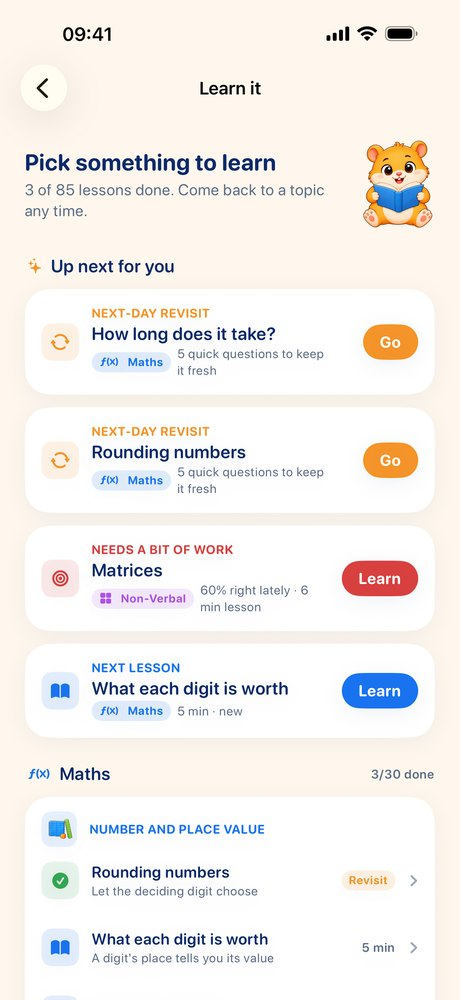
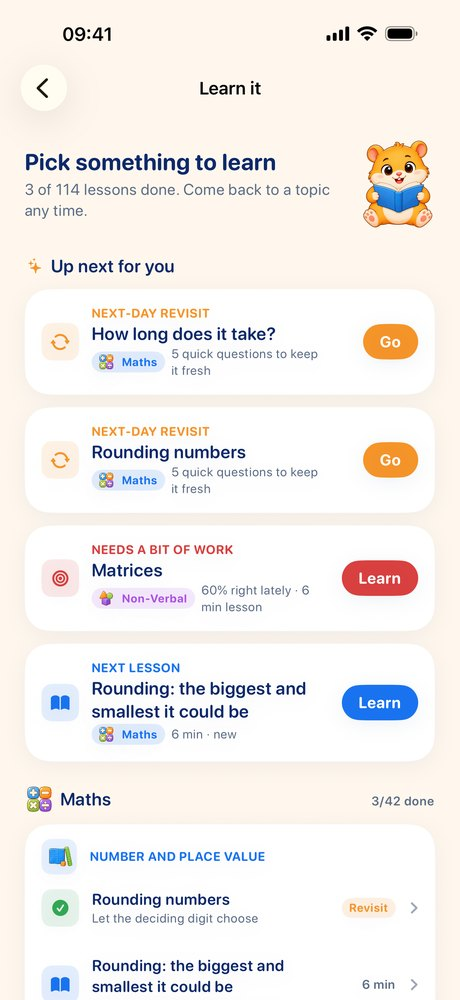
Site: latest counts (114 lessons, 13,000+ questions, 209 passages) and the harder question packs
Per-subject lessons 42/28/21/23 and question floors from the 2.3+ banks,
new lesson-library screenshot and og card line, sitemap lastmod 2026-11-18.

diff --git a/index.html b/index.html
@@ -4,13 +4,13 @@
 <meta charset="utf-8">
 <meta name="viewport" content="width=device-width, initial-scale=1">
 <title>11+ Test Coach — 11+ lessons and practice for iPhone and iPad</title>
-<meta name="description" content="Short lessons teach each 11+ topic first, then 12,000+ exam-style questions with hints build it up. Maths, English, Verbal and Non-Verbal Reasoning on iPhone and iPad. Try everything free for 24 hours, no card.">
+<meta name="description" content="Short lessons teach each 11+ topic first, then 13,000+ exam-style questions with hints build it up. Maths, English, Verbal and Non-Verbal Reasoning on iPhone and iPad. Try everything free for 24 hours, no card.">
 <link rel="stylesheet" href="/style.css">
 <link rel="icon" href="/assets/favicon-96.png" type="image/png">
 <meta name="theme-color" content="#F7FAFF">
 <link rel="canonical" href="https://11testcoach.co.uk/">
 <meta property="og:title" content="11+ Test Coach — taught first, then practised">
-<meta property="og:description" content="85 short lessons and 12,000+ exam-style questions across all four 11+ subjects, with a hamster coach called Taco. Free for 24 hours, then five free questions a day. No ads, no account, no tracking.">
+<meta property="og:description" content="114 short lessons and 13,000+ exam-style questions across all four 11+ subjects, with a hamster coach called Taco. Free for 24 hours, then five free questions a day. No ads, no account, no tracking.">
 <meta property="og:image" content="https://11testcoach.co.uk/assets/og-card.png">
 <meta property="og:image:width" content="1200">
 <meta property="og:image:height" content="630">
@@ -134,27 +134,27 @@
     <!-- The four subjects, briefly. The deep dive lives on /subjects/. -->
     <section id="subjects" class="hm-subjects">
       <p class="kicker">All four 11+ subjects</p>
-      <h2 class="section-title">85 lessons and 12,000+ questions, built for the 11+.</h2>
+      <h2 class="section-title">114 lessons and 13,000+ questions, built for the 11+.</h2>
       <p class="section-sub">Pick your child's target schools from 250 grammar and selective schools, and practice covers just the subjects those schools test.</p>
       <div class="hm-subject-grid">
         <a class="hm-subject" href="/subjects/#maths" style="--c:#C27C00;--bg:#FFF5DE">
           <span class="hm-subject-name">Maths</span>
-          <span class="hm-subject-count">30 lessons</span>
+          <span class="hm-subject-count">42 lessons</span>
           <span class="hm-subject-topics">Fractions, percentages, place value, time, area, angles, word problems</span>
         </a>
         <a class="hm-subject" href="/subjects/#english" style="--c:#1A6FD6;--bg:#E8F2FF">
           <span class="hm-subject-name">English</span>
-          <span class="hm-subject-count">22 lessons</span>
+          <span class="hm-subject-count">28 lessons</span>
           <span class="hm-subject-topics">Comprehension, inference, spelling, grammar, punctuation, cloze</span>
         </a>
         <a class="hm-subject" href="/subjects/#verbal" style="--c:#138A57;--bg:#E4F7EE">
           <span class="hm-subject-name">Verbal Reasoning</span>
-          <span class="hm-subject-count">15 lessons</span>
+          <span class="hm-subject-count">21 lessons</span>
           <span class="hm-subject-topics">Letter codes, sequences, hidden words, synonyms, logic</span>
         </a>
         <a class="hm-subject" href="/subjects/#nonverbal" style="--c:#8A36C2;--bg:#F4E9FC">
           <span class="hm-subject-name">Non-Verbal Reasoning</span>
-          <span class="hm-subject-count">18 lessons</span>
+          <span class="hm-subject-count">23 lessons</span>
           <span class="hm-subject-topics">Reflections, rotations, matrices, cube nets, paper folding</span>
         </a>
       </div>
@@ -163,6 +163,7 @@
         <li><b>Master a Skill</b>: one topic, level by level, up to a trophy</li>
         <li><b>A starting check</b> finds their level in each topic on day one</li>
         <li><b>Every question audited</b>, with 5,000+ rewritten or rebuilt to 11+ standard</li>
+        <li><b>Harder questions for the top end</b>: multi-step maths, GL-style spelling and punctuation lines, classic stories and poems to read, and new picture styles in NVR</li>
       </ul>
       <p class="hm-more"><a href="/subjects/">See a lesson and a question from every subject →</a></p>
     </section>
@@ -262,7 +263,7 @@
         </div>
       </div>
 
-      <p class="hm-then">Want everything? Pick a plan. Every plan has all four subjects, all 85 lessons, 12,000+ questions and unlimited practice, mock tests, Master a Skill, assignments, weekly plans and PDF reports.</p>
+      <p class="hm-then">Want everything? Pick a plan. Every plan has all four subjects, all 114 lessons, 13,000+ questions and unlimited practice, mock tests, Master a Skill, assignments, weekly plans and PDF reports.</p>
 
       <div class="hm-plans">
         <div class="hm-plan">
@@ -332,7 +333,7 @@
         </details>
         <details>
           <summary>What's free after the 24 hours?</summary>
-          <p><b>Taco's Daily 5</b>: five questions every day, one subject at a time, aimed at your child's weakest topic, with hints, XP, streaks and rewards. In Parent Mode you keep the overview, focus areas, mistakes, starting assessments, rewards and reminders. A plan adds unlimited practice, all 85 lessons, mock tests, Master a Skill, assignments, weekly plans and PDF reports. There's no time limit on the free plan.</p>
+          <p><b>Taco's Daily 5</b>: five questions every day, one subject at a time, aimed at your child's weakest topic, with hints, XP, streaks and rewards. In Parent Mode you keep the overview, focus areas, mistakes, starting assessments, rewards and reminders. A plan adds unlimited practice, all 114 lessons, mock tests, Master a Skill, assignments, weekly plans and PDF reports. There's no time limit on the free plan.</p>
         </details>
         <details>
           <summary>How much does it cost after that?</summary>
@@ -340,7 +341,7 @@
         </details>
         <details>
           <summary>What are the lessons, and do they replace practice?</summary>
-          <p>There are 85 short lessons: 30 Maths, 22 English, 15 Verbal Reasoning and 18 Non-Verbal Reasoning. Each one explains a topic with pictures and a worked example, lets your child try it with help, and ends with a quick check. They don't replace practice, they come before it: you'll find them on Home, before a mission, inside Master a Skill and in the lesson library. A finished lesson comes back the next day as a short revisit.</p>
+          <p>There are 114 short lessons: 42 Maths, 28 English, 21 Verbal Reasoning and 23 Non-Verbal Reasoning. Each one explains a topic with pictures and a worked example, lets your child try it with help, and ends with a quick check. They don't replace practice, they come before it: you'll find them on Home, before a mission, inside Master a Skill and in the lesson library. A finished lesson comes back the next day as a short revisit.</p>
         </details>
         <details>
           <summary>Which schools and regions are covered?</summary>

diff --git a/subjects/index.html b/subjects/index.html
@@ -4,13 +4,13 @@
 <meta charset="utf-8">
 <meta name="viewport" content="width=device-width, initial-scale=1">
 <title>The four 11+ subjects: lessons and practice | 11+ Test Coach</title>
-<meta name="description" content="A lesson and a question from all four 11+ subjects, with the full topic list each one covers: maths, English, verbal reasoning and non-verbal reasoning. 85 lessons and 12,000+ questions.">
+<meta name="description" content="A lesson and a question from all four 11+ subjects, with the full topic list each one covers: maths, English, verbal reasoning and non-verbal reasoning. 114 lessons and 13,000+ questions.">
 <link rel="stylesheet" href="/style.css">
 <link rel="icon" href="/assets/favicon-96.png" type="image/png">
 <meta name="theme-color" content="#F7FAFF">
 <link rel="canonical" href="https://11testcoach.co.uk/subjects/">
 <meta property="og:title" content="The four 11+ subjects: lessons and practice | 11+ Test Coach">
-<meta property="og:description" content="A lesson and a question from all four 11+ subjects, with the full topic list each one covers: maths, English, verbal reasoning and non-verbal reasoning. 85 lessons and 12,000+ questions.">
+<meta property="og:description" content="A lesson and a question from all four 11+ subjects, with the full topic list each one covers: maths, English, verbal reasoning and non-verbal reasoning. 114 lessons and 13,000+ questions.">
 <meta property="og:image" content="https://11testcoach.co.uk/assets/og-card.png">
 <meta property="og:image:width" content="1200">
 <meta property="og:image:height" content="630">
@@ -78,7 +78,7 @@
         </aside>
         <div class="subject-copy">
           <span class="chip" style="--chip:#946000">Maths</span>
-          <h3>30 lessons and 5,100+ questions, from quick arithmetic to full word problems</h3>
+          <h3>42 lessons and 5,400+ questions, from quick arithmetic to full word problems</h3>
           <p>Lessons cover the topics children most often get stuck on: fractions of amounts, percentages, place value, time, perimeter and area, the mean, working backwards and two-step problems. In practice every answer is marked instantly and explained step by step, difficulty adapts topic by topic, and a full-screen squared-paper notepad gives them somewhere to do their working out.</p>
           <p class="covers"><b>Covers:</b> number &amp; place value, addition &amp; subtraction, multiplication &amp; division, fractions, decimals &amp; percentages, money, time, measurement, geometry, number sequences, data &amp; charts, and word problems.</p>
         </div>
@@ -93,7 +93,7 @@
         </aside>
         <div class="subject-copy">
           <span class="chip" style="--chip:#1A6FD6">English</span>
-          <h3>22 lessons and 2,600+ questions built around 196 original reading passages</h3>
+          <h3>28 lessons and 3,100+ questions built around 209 reading passages</h3>
           <p>Lessons teach the skills behind the paper: finding the evidence, reading between the lines, fact or opinion, homophones, apostrophes, commas, speech marks and filling the gaps. Comprehension practice works the way the exam does: read a full passage, then answer retrieval, inference and deduction questions on it, with the passage one tap away.</p>
           <p class="covers"><b>Covers:</b> reading comprehension, inference &amp; deduction, grammar, punctuation, spelling, synonyms &amp; antonyms, vocabulary in context, cloze passages, sentence completion, literary devices, and summarising.</p>
         </div>
@@ -108,7 +108,7 @@
         </aside>
         <div class="subject-copy">
           <span class="chip" style="--chip:#0F7A4C">Verbal Reasoning</span>
-          <h3>15 lessons and 2,100+ questions across 15 exam question types</h3>
+          <h3>21 lessons and 2,700+ questions across every exam question type</h3>
           <p>VR is the paper most children have never seen before, so there's a lesson for each question type: letter sequences, alphabet codes, number and letter codes, hidden words, compound words, word analogies, sentence logic and more. Each explanation in practice shows the pattern behind the question, and Taco can offer a nudge (or stay silent — you choose).</p>
           <p class="covers"><b>Covers:</b> letter &amp; number codes, letter sequences, word analogies, hidden words, compound words, odd one out, synonyms &amp; antonyms, missing letters, sentence logic, and ordering.</p>
         </div>
@@ -123,7 +123,7 @@
         </aside>
         <div class="subject-copy">
           <span class="chip" style="--chip:#8A36C2">Non-Verbal Reasoning</span>
-          <h3>18 lessons and 2,100+ questions across 18 spatial question types</h3>
+          <h3>23 lessons and 2,300+ questions across 18 spatial question types</h3>
           <p>Every NVR question type has its own lesson with drawn examples: turning shapes, mirror images, matrices, nets of cubes, folding and unfolding, punched holes, hidden shapes and views of block stacks. Practice uses crisp, zoomable diagrams, and every answer comes with a visual explanation of <em>why</em>.</p>
           <p class="covers"><b>Covers:</b> nets &amp; cubes, paper folding, hole punching, rotations, reflections, symmetry, matrices, shape sequences, shape codes, embedded shapes, block patterns, and 3-D views.</p>
         </div>
@@ -134,7 +134,7 @@
       <h2 class="section-title">How the lessons fit in.</h2>
       <div class="subject-detail">
         <aside class="subj-single">
-          <div class="shot"><img src="/assets/screens/app-lesson-library-sm.jpg" alt="The Learn it lesson library: 3 of 85 lessons done, with next-day revisits, a lesson that needs a bit of work and the next lesson up for you" width="460" height="1000" loading="lazy"></div>
+          <div class="shot"><img src="/assets/screens/app-lesson-library-sm.jpg" alt="The Learn it lesson library: 3 of 114 lessons done, with next-day revisits, a lesson that needs a bit of work and the next lesson up for you" width="460" height="1000" loading="lazy"></div>
         </aside>
         <div class="subject-copy">
           <p>A lesson takes about five minutes. It starts with a warm-up question, teaches the idea with a picture and a worked example, lets your child try a couple with help, and ends with a quick check. The next day it comes back as a short revisit, so it sticks.</p>

diff --git a/guide/index.html b/guide/index.html
@@ -114,7 +114,7 @@
         <aside>
           <div class="shot-pair">
             <div>
-          <div class="shot"><img src="/assets/screens/app-lesson-library-sm.jpg" alt="The Learn it lesson library: 3 of 85 lessons done, with next-day revisits and the next lesson up for you" width="460" height="1000" loading="lazy"></div>
+          <div class="shot"><img src="/assets/screens/app-lesson-library-sm.jpg" alt="The Learn it lesson library: 3 of 114 lessons done, with next-day revisits and the next lesson up for you" width="460" height="1000" loading="lazy"></div>
           <div class="shot-caption">The lesson library…</div>
             </div>
             <div>
@@ -125,8 +125,8 @@
         </aside>
         <div class="guide-copy">
           <div class="kicker">Taught before it's tested</div>
-          <h2>Learn it: 85 short lessons</h2>
-          <p>Practice works best when your child already understands the idea. So before the questions there are <b>85 short lessons</b>: 30 in Maths, 22 in English, 15 in Verbal Reasoning and 18 in Non-Verbal Reasoning. Each takes about five minutes:</p>
+          <h2>Learn it: 114 short lessons</h2>
+          <p>Practice works best when your child already understands the idea. So before the questions there are <b>114 short lessons</b>: 42 in Maths, 28 in English, 21 in Verbal Reasoning and 23 in Non-Verbal Reasoning. Each takes about five minutes:</p>
           <ul>
             <li><b>A warm-up</b> — one question from something they already know.</li>
             <li><b>The idea</b>, explained with a picture and a worked example.</li>

diff --git a/support/index.html b/support/index.html
@@ -127,7 +127,7 @@
   <div class="faq">
     <details>
       <summary>What are the Learn it lessons?</summary>
-      <p>85 short lessons — 30 Maths, 22 English, 15 Verbal Reasoning and 18 Non-Verbal Reasoning — that teach a topic before your child practises it. Each one takes about five minutes: a warm-up question, the idea explained with a picture and a worked example, a couple to try with Taco's help, and a quick check. A finished lesson comes back the next day as a short revisit. Lessons are on Home, in a <strong>Learn it first</strong> link before a mission, inside Master a Skill and in the lesson library; Parent Mode shows which are done and how the recap checks went.</p>
+      <p>114 short lessons — 42 Maths, 28 English, 21 Verbal Reasoning and 23 Non-Verbal Reasoning — that teach a topic before your child practises it. Each one takes about five minutes: a warm-up question, the idea explained with a picture and a worked example, a couple to try with Taco's help, and a quick check. A finished lesson comes back the next day as a short revisit. Lessons are on Home, in a <strong>Learn it first</strong> link before a mission, inside Master a Skill and in the lesson library; Parent Mode shows which are done and how the recap checks went.</p>
     </details>
     <details>
       <summary>Can they show their working out, like on paper?</summary>

diff --git a/taco/index.html b/taco/index.html
@@ -66,7 +66,7 @@
         <div>
           <div class="kicker">Meet the coach</div>
           <h1 class="section-title">This is Taco. The whole app is named after him.</h1>
-          <p class="lead-sm">Every child gets stuck. What happens in that moment decides whether they learn something or quietly give up — so we built a coach for it. Taco sits on every one of the 12,000+ questions in the app, he shows up in every lesson to help with the tricky bits, and he never gives away an answer.</p>
+          <p class="lead-sm">Every child gets stuck. What happens in that moment decides whether they learn something or quietly give up — so we built a coach for it. Taco sits on every one of the 13,000+ questions in the app, he shows up in every lesson to help with the tricky bits, and he never gives away an answer.</p>
           <p class="lead-sm"><b>He nudges. He doesn't tell.</b> A child who is stuck gets a way in, tries again themselves, and gets the credit — while you get an honest record of how often the help was needed.</p>
         </div>
       </div>
